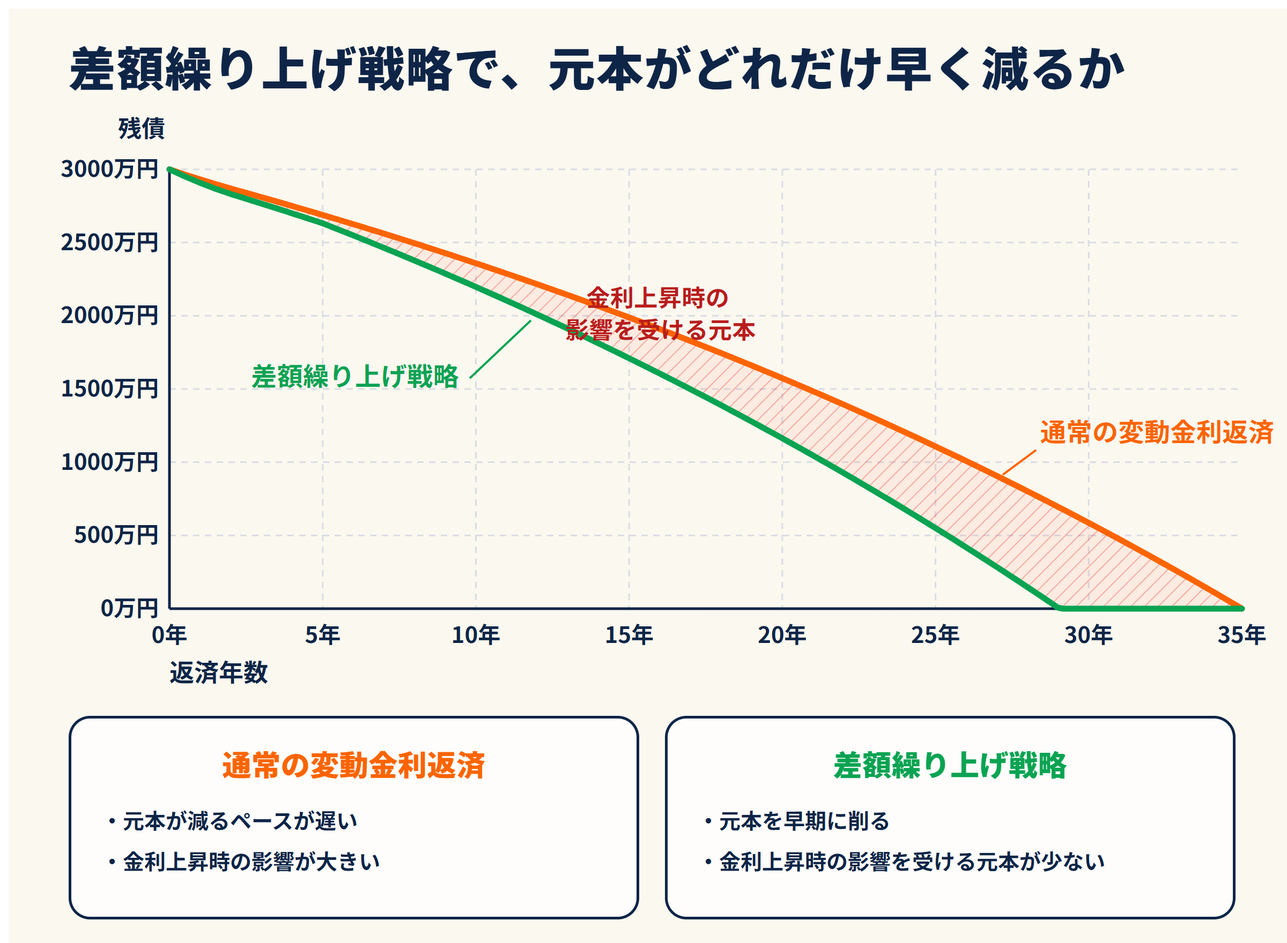
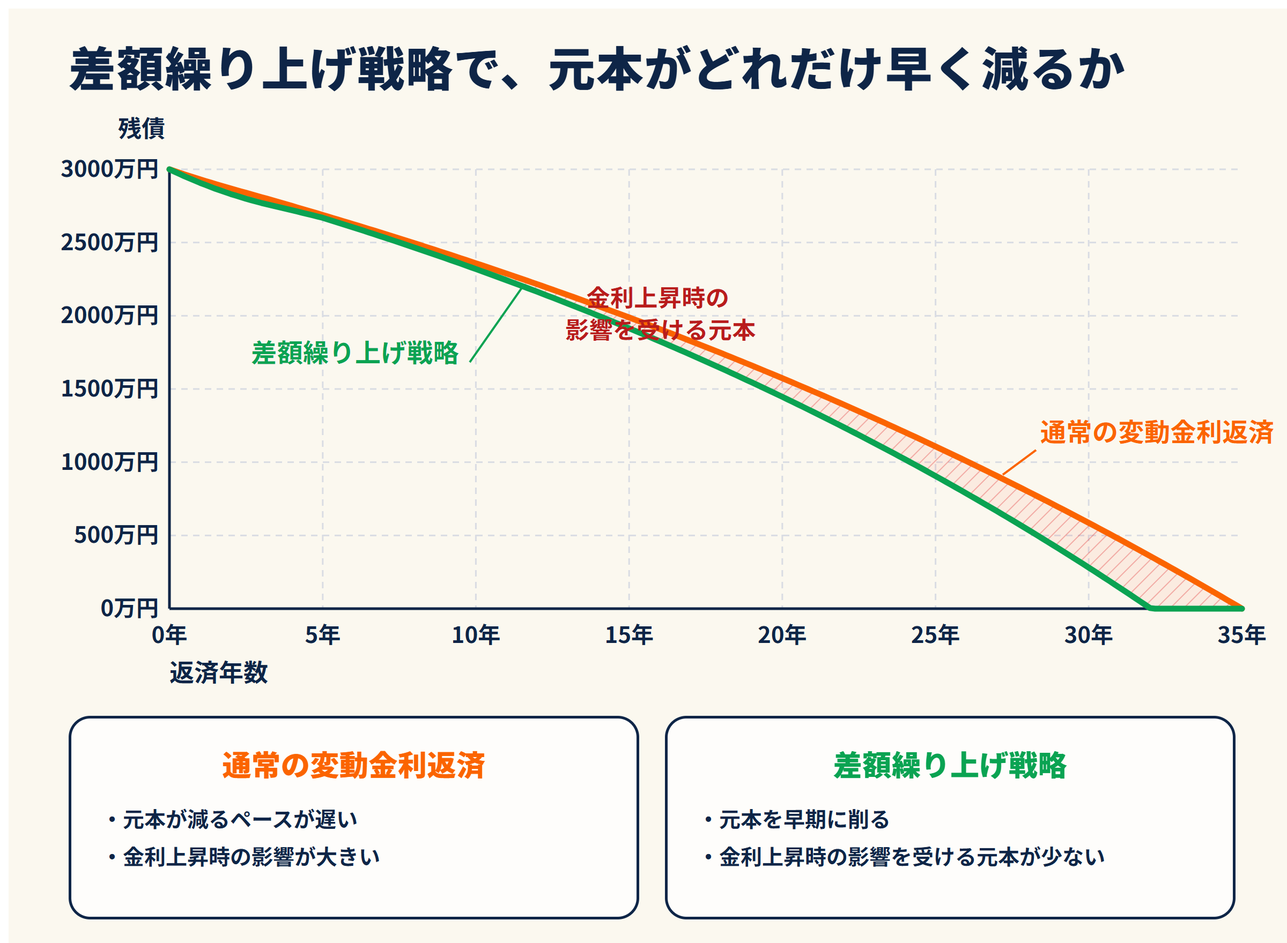
update: メインシナリオを中立金利上限(変動2.9%)に修正、判断フローチャートに支払可否の問いを追加
reader-advocateレビューで849万円有利という結果が煽りすぎとの指摘を受け、メインシナリオの利上げ到達点を政策金利2.0%(変動2.3%)から中立金利の上限である政策金利2.5%(変動2.9%)に変更。結果表・結論・保険の議論・まとめを整合させ、感応度グラフと元本カーブ画像も差し替え。判断フローチャートには「毎月無理なく払えるか(固定金利換算)」の問いを起点に追加し4分岐に拡張。固定金利記事への内部リンクも正しいslugに修正。

diff --git a/content/posts/housing-loan-variable-fixed-simulation.md b/content/posts/housing-loan-variable-fixed-simulation.md
@@ -1,11 +1,11 @@
 ---
 title: "住宅ローンは変動か固定か——差額繰り上げ戦略と「保険料」の考え方"
 date: 2026-05-20T05:30:00+09:00
-lastmod: 2026-08-20T00:00:00+09:00
+lastmod: 2026-08-21T00:00:00+09:00
 draft: false
 categories: ["資産形成"]
 tags: ["住宅ローン", "シミュレーション"]
-description: "変動と固定の差額を繰り上げ返済に回す戦略を3,000万円35年で検証。固定金利は実質『保険料』、買うべきかを判断軸で解説します。"
+description: "変動＋差額繰り上げ戦略は、中立金利の上限まで利上げが進んでも固定より424万円有利。3,000万円・35年の実例で検証します。固定金利は実質『保険料』、買うべきかを判断軸で解説します。"
 showToc: true
 cover:
   image: "/images/thumb-housing-loan-variable-fixed-simulation.png"
@@ -26,7 +26,7 @@ cover:
 
 こうした環境下で、変動を選ぶか・固定で固めるかの判断はますます悩ましくなっています。
 
-結論から先に書くと、<strong>家計に余裕があり、金利動向を継続的にチェックできるタイプの方であれば、「変動金利」を選び、固定金利との差額を毎月繰り上げ返済に充当する</strong>戦略が有力候補になります。この戦略を取ると、変動金利が相当な水準まで上昇しない限り、変動の方が総支払額で有利になります。
+結論から先に書くと、<strong>家計に余裕があり、金利動向を継続的にチェックできるタイプの方であれば、「変動金利」を選び、固定金利との差額を毎月繰り上げ返済に充当する</strong>戦略が有力候補になります。この戦略を取ると、中立金利の上限程度までの利上げなら、変動の方が総支払額で有利になります。ただし、それ以上に利上げが進むと話は変わるため、本記事後半で詳しく確認します。
 
 ただし、後半で詳しく扱うように、固定金利を選ぶ合理性も人によっては明確に存在します。本記事は「どちらか一方が絶対にお得」という答えを出すものではなく、<strong>自分はどちらを選ぶべきかを判断するための軸を提供する</strong>記事です。
 
@@ -65,7 +65,7 @@ cover:
 
 ---
 
-## 一般的な選び方の考え方
+## 変動と固定、どちらを選ぶべきか——一般的な考え方
 
 住宅ローンの変動・固定の選び方は、シンプルに整理できます。
 
@@ -100,11 +100,11 @@ cover:
 
 つまりこの戦略は、「低金利の間に元本を前倒しで返済し、将来の金利上昇リスクを小さくする」という考え方です。
 
-![差額繰り上げ戦略で元本がどれだけ早く減るかを示すグラフ。通常の変動金利返済は緩やかなカーブで35年で完済、差額繰り上げ戦略は急なカーブで約29年で完済。2本の差が金利上昇時の影響を受ける元本として赤帯で表示](/images/illust-strategy-balance-curve.png)
+![差額繰り上げ戦略で元本がどれだけ早く減るかを示すグラフ。通常の変動金利返済は緩やかなカーブで35年で完済、差額繰り上げ戦略は急なカーブで約32年で完済。2本の差が金利上昇時の影響を受ける元本として赤帯で表示](/images/illust-strategy-balance-curve.png)
 
 ---
 
-## 3,000万円・35年シミュレーション
+## 3,000万円・35年シミュレーション（2026年8月時点の金利で検証）
 
 実際の数字で確認します。以下の前提条件でシミュレーションします。
 
@@ -121,7 +121,7 @@ cover:
 
 変動金利は政策金利の動向に連動して上昇する想定で、以下のシナリオを置きます。
 
-- 2026年8月時点の政策金利1.0%を起点に、<strong>2.0%に到達するまで</strong>、日銀が<strong>年2回ペース（半年ごと）で0.25%ずつ利上げ</strong>を継続
+- 2026年8月時点の政策金利1.0%を起点に、記事冒頭で触れた中立金利の上限にあたる<strong>2.5%に到達するまで</strong>、日銀が<strong>年2回ペース（半年ごと）で0.25%ずつ利上げ</strong>を継続
 - 政策金利が0.25%上昇するごとに、住宅ローン変動金利は<strong>0.3%上昇</strong>（2024〜2025年の利上げ局面で、政策金利+0.25%に対してメガバンクの変動金利が+0.20〜0.275%上昇した実績を参考）
 
 これを当てはめると、変動金利の推移は次のようになります。
@@ -132,10 +132,12 @@ cover:
 | 6ヶ月後 | 1.25% | 1.4% |
 | 1年後 | 1.50% | 1.7% |
 | 1.5年後 | 1.75% | 2.0% |
-| 2年後 | 2.00% | <strong>2.3%</strong> |
-| 2年以降〜完済 | 2.00%（横ばい） | 2.3%（横ばい） |
+| 2年後 | 2.00% | 2.3% |
+| 2.5年後 | 2.25% | 2.6% |
+| 3年後 | 2.50% | <strong>2.9%</strong> |
+| 3年以降〜完済 | 2.50%（横ばい） | 2.9%（横ばい） |
 
-![政策金利と変動住宅ローン金利が6ヶ月ごとに段階的に上昇する階段グラフ。政策金利は1.0%から2.0%まで0.25%ずつ、変動金利は1.1%から2.3%まで0.3%ずつ上昇し、2年で安定する想定](/images/illust-rate-rise-stairs.png)
+![政策金利と変動住宅ローン金利が6ヶ月ごとに段階的に上昇する階段グラフ。政策金利は1.0%から2.5%まで0.25%ずつ、変動金利は1.1%から2.9%まで0.3%ずつ上昇し、3年で安定する想定](/images/illust-rate-rise-stairs.png)
 
 ### 固定金利の前提
 
@@ -162,50 +164,50 @@ cover:
 
 ### シミュレーション結果
 
-| 項目 | 固定金利 | 変動差額繰り上げ戦略 |
+| 項目 | 固定金利 | 変動＋差額繰り上げ戦略 |
 |---|---|---|
-| 完済までの年数 | 35年 | <strong>約29年</strong>（約6年短縮）|
-| 総支払額 | 約4,925万円 | <strong>約4,076万円</strong> |
-| 総支払利息 | 約1,925万円 | <strong>約1,076万円</strong> |
-| 差額 | — | <strong>約849万円、戦略が有利</strong> |
+| 完済までの年数 | 35年 | <strong>約32年</strong>（約3年短縮）|
+| 総支払額 | 約4,925万円 | <strong>約4,501万円</strong> |
+| 総支払利息 | 約1,925万円 | <strong>約1,501万円</strong> |
+| 差額 | — | <strong>約424万円、戦略が有利</strong> |
 
 注目すべきポイントは2つあります。
 
-第一に、<strong>戦略の優位性は明確</strong>であること。フラット35の基準金利は2026年に入って上昇が続き3.29%まで達した一方、主要行の変動金利の上昇はまだ緩やかで1.1%程度にとどまっており、両者の差が大きく開いています。本シナリオでは、最終的に変動金利が2.3%まで上昇しますが、固定金利（引き下げ期間終了後）3.29%を大きく下回ったままです。差額繰り上げ戦略の総支払額は、固定金利より約849万円少なく済みます。
+第一に、<strong>中立金利の上限まで利上げが進むという、比較的厳しめの前提でも、戦略はなお有利</strong>です。フラット35の基準金利は2026年に入って上昇が続き3.29%まで達した一方、主要行の変動金利の上昇はまだ緩やかで1.1%程度にとどまっており、出発点の差はまだ大きく開いています。本シナリオでは、最終的に変動金利が2.9%まで上昇し、固定金利（引き下げ期間終了後）3.29%との差はかなり縮まりますが、それでも上回ることはありません。差額繰り上げ戦略の総支払額は、固定金利より約424万円少なく済みます。
 
-第二に、<strong>この優位性は利上げが多少進んでも簡単には崩れない</strong>こと。メインシナリオからさらに1回利上げが進んだ場合（政策金利2.25%・変動2.6%）でも戦略はまだ約648万円有利、記事冒頭で触れた中立金利の上限（政策金利2.5%程度・変動2.9%）まで進んでも約424万円有利です。
+第二に、<strong>利上げがこのメインシナリオより早く止まれば、優位性はさらに拡大</strong>します。たとえば政策金利2.0%程度で一段落した場合は約849万円有利、あと1回（政策金利2.25%）程度で止まった場合でも約648万円有利という結果です。逆に、メインシナリオよりもさらに利上げが進んだ場合にどうなるかは、次の章で確認します。
 
 ### 利上げペースが変わるとどうなるか
 
 ここで重要なポイントを2つ強調しておきます。
 
-第一に、<strong>メインシナリオ（政策金利2%まで利上げ）</strong>は、<strong>住宅ローンを借りている人にとっては、変動金利が上昇するという意味で「悲観シナリオ」</strong>に見えます。しかし同時に、<strong>日本経済にとっては「楽観シナリオ」</strong>でもあります。日本経済が継続的に好調で、賃金上昇と物価安定が両立する前提でないと、ここまでの利上げは進みません。つまり、金利上昇の背景には賃金や収入の上昇が伴っているケースも多く、住宅ローンの負担増だけを切り取って悲観する必要はありません。視点によって意味が変わる点に留意してください。実際には景気後退や政策転換で利上げが途中で止まる可能性も十分にあります。
+第一に、<strong>メインシナリオ（政策金利2.5%まで利上げ）</strong>は、<strong>住宅ローンを借りている人にとっては、変動金利が上昇するという意味で「悲観シナリオ」</strong>に見えます。しかし同時に、<strong>日本経済にとっては「楽観シナリオ」</strong>でもあります。日本経済が継続的に好調で、賃金上昇と物価安定が両立する前提でないと、ここまでの利上げは進みません。つまり、金利上昇の背景には賃金や収入の上昇が伴っているケースも多く、住宅ローンの負担増だけを切り取って悲観する必要はありません。視点によって意味が変わる点に留意してください。実際には景気後退や政策転換で利上げが途中で止まる可能性も十分にあります。
 
 第二に、<strong>こうしたシミュレーションは目安にすぎず、現時点で誰も将来金利を正確に予測できません</strong>。あくまで「この前提を置くとこうなる」というスケッチに過ぎないので、絶対視はしないでください。
 
-その上で、本記事の一例に沿って利上げがさらに進んだ場合を確認すると、戦略と固定の損益が逆転するのは<strong>変動金利が3.4%前後</strong>まで上昇した場合です。これは記事冒頭で触れた中立金利の上限（政策金利2.5%程度・変動2.9%前後）をさらに超える水準で、本記事が想定するメインシナリオの範囲外になります。つまり<strong>現在の金利差（固定3.29%・変動1.1%）を前提にする限り、想定される利上げレンジの中では戦略が一貫して有利</strong>という結果になります。
+その上で、本記事の一例に沿って利上げがメインシナリオよりさらに進んだ場合を確認すると、戦略と固定の損益が逆転するのは<strong>変動金利が3.4%前後</strong>まで上昇した場合です。これはメインシナリオ（変動2.9%）からあと1〜2回程度の追加利上げに相当し、そう遠い水準ではありません。<strong>中立金利の上限まで利上げが進むメインシナリオの時点ではまだ戦略が有利ですが、そこからさらに利上げが続けば、優位性は比較的早く失われます</strong>。
 
 こうした感応度は、金利が動くたびに前提が古くなってしまうため、本記事では特定時点の数表としては掲載しません。代わりに、借入額・返済期間・現在の金利水準・想定する利上げペースをご自身の条件に置き換えて試算できるツールを用意しました。「1回あたりの上昇幅」や「上昇の間隔」も調整できるので、利上げが本記事の想定より速く進んだ場合・遅く進んだ場合のどちらも自分の条件で確認できます。
 
 👉 **<a href="https://finlab-se.com/tools/housing-loan-strategy-simulator/" target="_blank" rel="noopener">住宅ローン 変動×差額繰り上げ シミュレータを開く</a>**
 
-### 結論：今の金利差なら、保険は「買い時」ではなさそうだ
+### 結論：中立金利の上限まで利上げが進んでも、まだ戦略が有利
 
-本記事の一例では、利上げがメインシナリオ（政策金利2.0%）程度で収まれば戦略が<strong>約849万円有利</strong>、想定される利上げレンジの上限（中立金利の上限、政策金利2.5%程度）まで進んでも、なお<strong>約424万円有利</strong>という結果でした。損益が逆転するのは、変動金利が3.4%前後まで、つまり本記事が想定するメインシナリオをはるかに超えて利上げが続いた場合に限られます。
+本記事の一例では、比較的厳しめのメインシナリオ（政策金利2.5%、中立金利の上限まで利上げ）でも戦略が<strong>約424万円有利</strong>という結果でした。利上げがそれより早く止まれば優位性はさらに拡大し（政策金利2.0%程度なら約849万円有利）、逆にメインシナリオからさらに1〜2回利上げが進むと、損益は逆転します。
 
-これは偶然ではなく、<strong>現在の固定金利と変動金利の差そのものが大きく開いている</strong>ことの反映です。フラット35の基準金利は2026年に入って上昇が続き3.29%まで達した一方、変動金利の上昇はまだ緩やかで1.1%程度にとどまっています。この差が大きいほど、変動＋差額繰り上げ戦略が有利になる範囲は広がります。
+これは偶然ではなく、<strong>現在の固定金利と変動金利の差がまだ開いている</strong>ことの反映です。フラット35の基準金利は2026年に入って上昇が続き3.29%まで達した一方、変動金利の上昇はまだ緩やかで1.1%程度にとどまっています。ただし、この差は利上げが進むにつれて縮んでいくため、「多少の利上げなら安泰」というほどの余裕ではありません。
 
 その上で、両者の構造的な違いを言語化すると、こうなります。
 
 > <strong>固定金利＝変動金利＋金利上昇リスクへの保険料</strong>
 
-固定金利の方が高いのは、銀行（あるいは市場）が「金利が想定以上に上がった場合の損失」を借り手に代わって引き受ける対価を上乗せしているため。ただし現在は、その保険料に見合うだけの金利上昇が起こる可能性は、本記事が想定する現実的なレンジの中では低いと言えます。利上げが早期に落ち着けば、保険料は「払い損」になり、戦略が数百万円単位で有利になります。それでも「保険を買っておきたい」と感じるかどうかは、金利上昇そのものへの不安の大きさや、想定する利上げペースによって変わるため、<a href="https://finlab-se.com/tools/housing-loan-strategy-simulator/" target="_blank" rel="noopener">シミュレータ</a>でご自身の条件を確認してみてください。
+固定金利の方が高いのは、銀行（あるいは市場）が「金利が想定以上に上がった場合の損失」を借り手に代わって引き受ける対価を上乗せしているためです。利上げが中立金利の上限あたりで落ち着けば、その保険料は「払い損」になり戦略が有利になりますが、そこからさらに利上げが続けば、比較的早く保険が効き始めます。どちらの結果になりやすいかは、ご自身の借入条件や想定する利上げペースによって変わるため、<a href="https://finlab-se.com/tools/housing-loan-strategy-simulator/" target="_blank" rel="noopener">シミュレータ</a>でご自身の条件を確認してみてください。
 
 ここで問いを立ててみてください。
 
-> <strong>本記事が想定する現実的な利上げレンジでは戦略が有利という結果でも、それでも固定金利という保険を買っておきたいか。</strong>
+> <strong>中立金利の上限あたりで利上げが落ち着くと見るなら、その先の追加利上げリスクのために、わざわざ保険（固定金利）を買う必要があるか。</strong>
 
-人によっては「たとえ可能性が低くても、金利上昇への不安をゼロにできるなら、保険料を払う価値がある」と感じるでしょう。一方で、<strong>「現在の金利差を踏まえると、固定金利の保険料は今は割高で、変動＋差額繰り上げ戦略のほうが合理的」</strong>という捉え方もあります。35年という長期間の中で、想定する利上げペース次第で損益の規模は変わるため、その不確実性をどこまで許容できるかで判断してください。
+人によっては「利上げがどこで止まるかは読み切れないから、保険料を払ってでも金利上昇に怯えずに済む方が大事」と感じるでしょう。一方で、<strong>「中立金利の上限あたりで一段落する可能性が高いなら、その保険料は今は割高」</strong>という捉え方もあります。35年という長期間の中で、想定する利上げペース次第で損益の規模も逆転の有無も変わるため、その不確実性をどこまで許容できるかで判断してください。
 
 ### そもそも保険とはどう使うものか
 
@@ -217,13 +219,13 @@ cover:
 - 保険料は確定的に支払うコストなので、<strong>小さなリスクにまで保険で備えていれば、トータルのコストが膨大に膨らんで</strong>しまう
 - そのため、リスクへの備えの考え方は<strong>「貯蓄で吸収できる範囲は貯蓄で、貯蓄で備えられないような大きな損失だけ保険を活用する」</strong>のが最もコスパが良い
 
-この原則を住宅ローンに当てはめると、<strong>現在の金利差を前提にする限り、変動金利が固定を上回るリスクそのものが小さい</strong>ことがわかります。仮に上回るとしても、それは変動金利が3.4%前後まで、記事が想定するメインシナリオを大きく超えて利上げが続いた結果であり、その過程を見ながら固定への借り換えや繰り上げ返済の加速といった対応を取る時間的余裕もあります。生命保険や火災保険のような「予兆なく起こり、対応する猶予もない損失」とは性質が違います。
+本記事の試算に当てはめると、<strong>中立金利の上限程度までの利上げなら、総支払額で変動金利が固定を上回ることはない</strong>とわかります。それを超えて利上げが続く場合も、じわじわと金利が上がっていく過程を見ながら、固定への借り換えや繰り上げ返済の加速といった対応を取る時間的余裕があります。生命保険や火災保険のような「予兆なく起こり、対応する猶予もない損失」とは性質が違います。
 
 もちろん、家計に余裕がなく、わずかな返済額の変動でも破綻する状況なら、固定金利の保険料を払う意味はあります。ただしそういう方は、本記事の前半で書いたとおり<strong>そもそも住宅ローンを借りるべきでない</strong>可能性が高いという話に戻ります。
 
 どちらが正解という話ではなく、<strong>このリスクを保険で対処すべきか、貯蓄と機動的な対応で対処すべきか</strong>という、家計全体のリスクマネジメントの問題です。
 
-少なくとも、本記事の一例では、想定される利上げレンジの中では一貫して戦略が有利という結果でした。ご自身の借入条件・想定する利上げペースでは損益分岐点がどのあたりに来るか、<a href="https://finlab-se.com/tools/housing-loan-strategy-simulator/" target="_blank" rel="noopener">シミュレータ</a>で輪郭をつかんだ上で、そのリスクシナリオを<strong>自分にとってどれくらい現実的に感じるか</strong>、そして<strong>仮に起こっても自分の貯蓄や機動的な対応で吸収できるか</strong>で判断してください。
+少なくとも、本記事の一例では、中立金利の上限までは戦略が有利、そこからさらに利上げが進むと逆転するという、それなりに現実的な範囲に損益分岐点があることがわかりました。ご自身の借入条件・想定する利上げペースでは損益分岐点がどのあたりに来るか、<a href="https://finlab-se.com/tools/housing-loan-strategy-simulator/" target="_blank" rel="noopener">シミュレータ</a>で輪郭をつかんだ上で、そのリスクシナリオを<strong>自分にとってどれくらい現実的に感じるか</strong>、そして<strong>仮に起こっても自分の貯蓄や機動的な対応で吸収できるか</strong>で判断してください。
 
 ---
 
@@ -231,7 +233,7 @@ cover:
 
 シミュレーション上の優位性があっても、実行できなければ意味がありません。この戦略を実行するために確認すべき条件を整理します。
 
-- 差額（変動金利1.1%初期で月約21,800円、利上げが進むと差額は縮小）を毎月確実に繰り上げ返済できる家計の余裕があること。家計が苦しくなったときに繰り上げ返済を止めると、戦略の前提が崩れます
+- 毎月の支出は、変動金利がどこまで上昇しても常に固定金利相当額（当初107,893円〜118,813円）のまま変わりません。この金額を毎月確実に支払い続けられる家計の余裕があること（初期の変動金利1.1%時点では、その差額分＝月約21,800円が元本の繰り上げ返済に回ります）。家計が苦しくなったときに支払いを続けられなくなると、戦略の前提が崩れます
 - 繰り上げ返済の手数料が無料の金融機関を選ぶこと。手数料がかかると差額がコストで消えてしまいます。多くのネット銀行は繰り上げ返済手数料が無料です
 - 変動金利の動向を定期的に確認できる習慣があること。急上昇のサインを掴んだ際に、固定への借り換えや繰り上げ返済の加速を検討できる柔軟性が必要です
 
@@ -251,7 +253,9 @@ cover:
 
 つまり、<strong>「差額繰り上げ戦略をやらない」という選択肢にも、合理的な動機がいくつかあります</strong>。固定金利は「保険料を払い損する可能性がある選択」ではなく、人によっては「思考コストや時間コストを買い取る選択」として正当化できる、ということです。
 
-![住宅ローン選択の判断フローチャート。家計に余裕があるか、金利動向をチェックできるか、政策金利が3%近くまで上がる可能性をどう感じるかの3つの分岐で、変動＋差額繰り上げ戦略・固定金利・住宅購入再考のいずれかに到達](/images/illust-housing-decision-flowchart.png)
+以上を踏まえて、判断の流れを整理したのが次のフローチャートです。最初の「毎月無理なく払えるか」は、変動金利の低い返済額ではなく、<strong>優遇期間終了後の高い方の固定金利（本記事の例では118,813円）を基準に判定してください</strong>。この戦略は最初から最後まで固定相当額を家計から支出し続けるため、それを基準にすることが実態に即しています。
+
+![住宅ローン選択の判断フローチャート。毎月のローン返済額（固定金利換算）を無理なく払えるか、家計に余裕があるか、金利動向をチェックできるか、政策金利が3%近くまで上がる可能性をどう感じるかの4つの分岐で、変動＋差額繰り上げ戦略・固定金利・住宅購入再考のいずれかに到達](/images/illust-housing-decision-flowchart.png)
 
 ---
 
@@ -260,7 +264,7 @@ cover:
 この記事で確認した内容を整理します。
 
 - 変動か固定かの判断軸は「返済の余裕があるか」。余裕がある人が変動を選ぶ場合、差額繰り上げ戦略が有効
-- 2026年8月の金利水準（変動1.1%・フラット35S当初5年優遇2.54%・以降3.29%）からスタートし、政策金利が2.0%まで段階的に利上げされるシナリオでは、戦略は固定より<strong>約849万円有利</strong>。中立金利の上限とされる政策金利2.5%程度（変動2.9%前後）まで進んでも約424万円有利を維持し、損益が逆転するのは変動金利が3.4%前後まで上昇した場合に限られる
+- 2026年8月の金利水準（変動1.1%・フラット35S当初5年優遇2.54%・以降3.29%）からスタートし、中立金利の上限とされる政策金利2.5%程度（変動2.9%前後）まで段階的に利上げされるメインシナリオでは、戦略は固定より<strong>約424万円有利</strong>。利上げがそれより早く止まれば有利幅はさらに拡大する一方（政策金利2.0%程度なら約849万円有利）、メインシナリオからさらに1〜2回利上げが進み変動金利が3.4%前後に達すると損益は逆転する
 - 一方、家計に余裕がなかったり、金利の動きに不安を感じやすいタイプは、そもそも住宅ローンを借りない選択肢も含めて再考する価値がある
 - 稼ぐ力があり、可処分時間を住宅ローンの管理ではなく本業に振り向けたい人にとっては、固定金利を選んで思考コストを買い取るのも合理的
 
@@ -284,6 +288,6 @@ cover:
 
 ## 関連記事
 
-- [固定金利の正体はデリバティブ——フラット35が安い理由を金融エンジニアが解説](/posts/housing-loan-fixed-rate-derivative-flat35/) — 固定金利の仕組みを解説
+- [固定金利の正体はデリバティブ——フラット35が安い理由を金融エンジニアが解説](/posts/fixed-rate-flat35/) — 固定金利の仕組みを解説
 - [日銀の利上げと住宅ローン借り換え判断——3条件シミュレーション](/posts/mortgage-rate-refinance-simulation/) — 金利が動くと返済はどう変わるか
 - [繰り上げ返済と投資どっち？配当で住宅ローンを賄えるか金融SEが試算](/posts/mortgage-prepayment-vs-investment-yieldgap/) — 返済と運用の損得を判断
